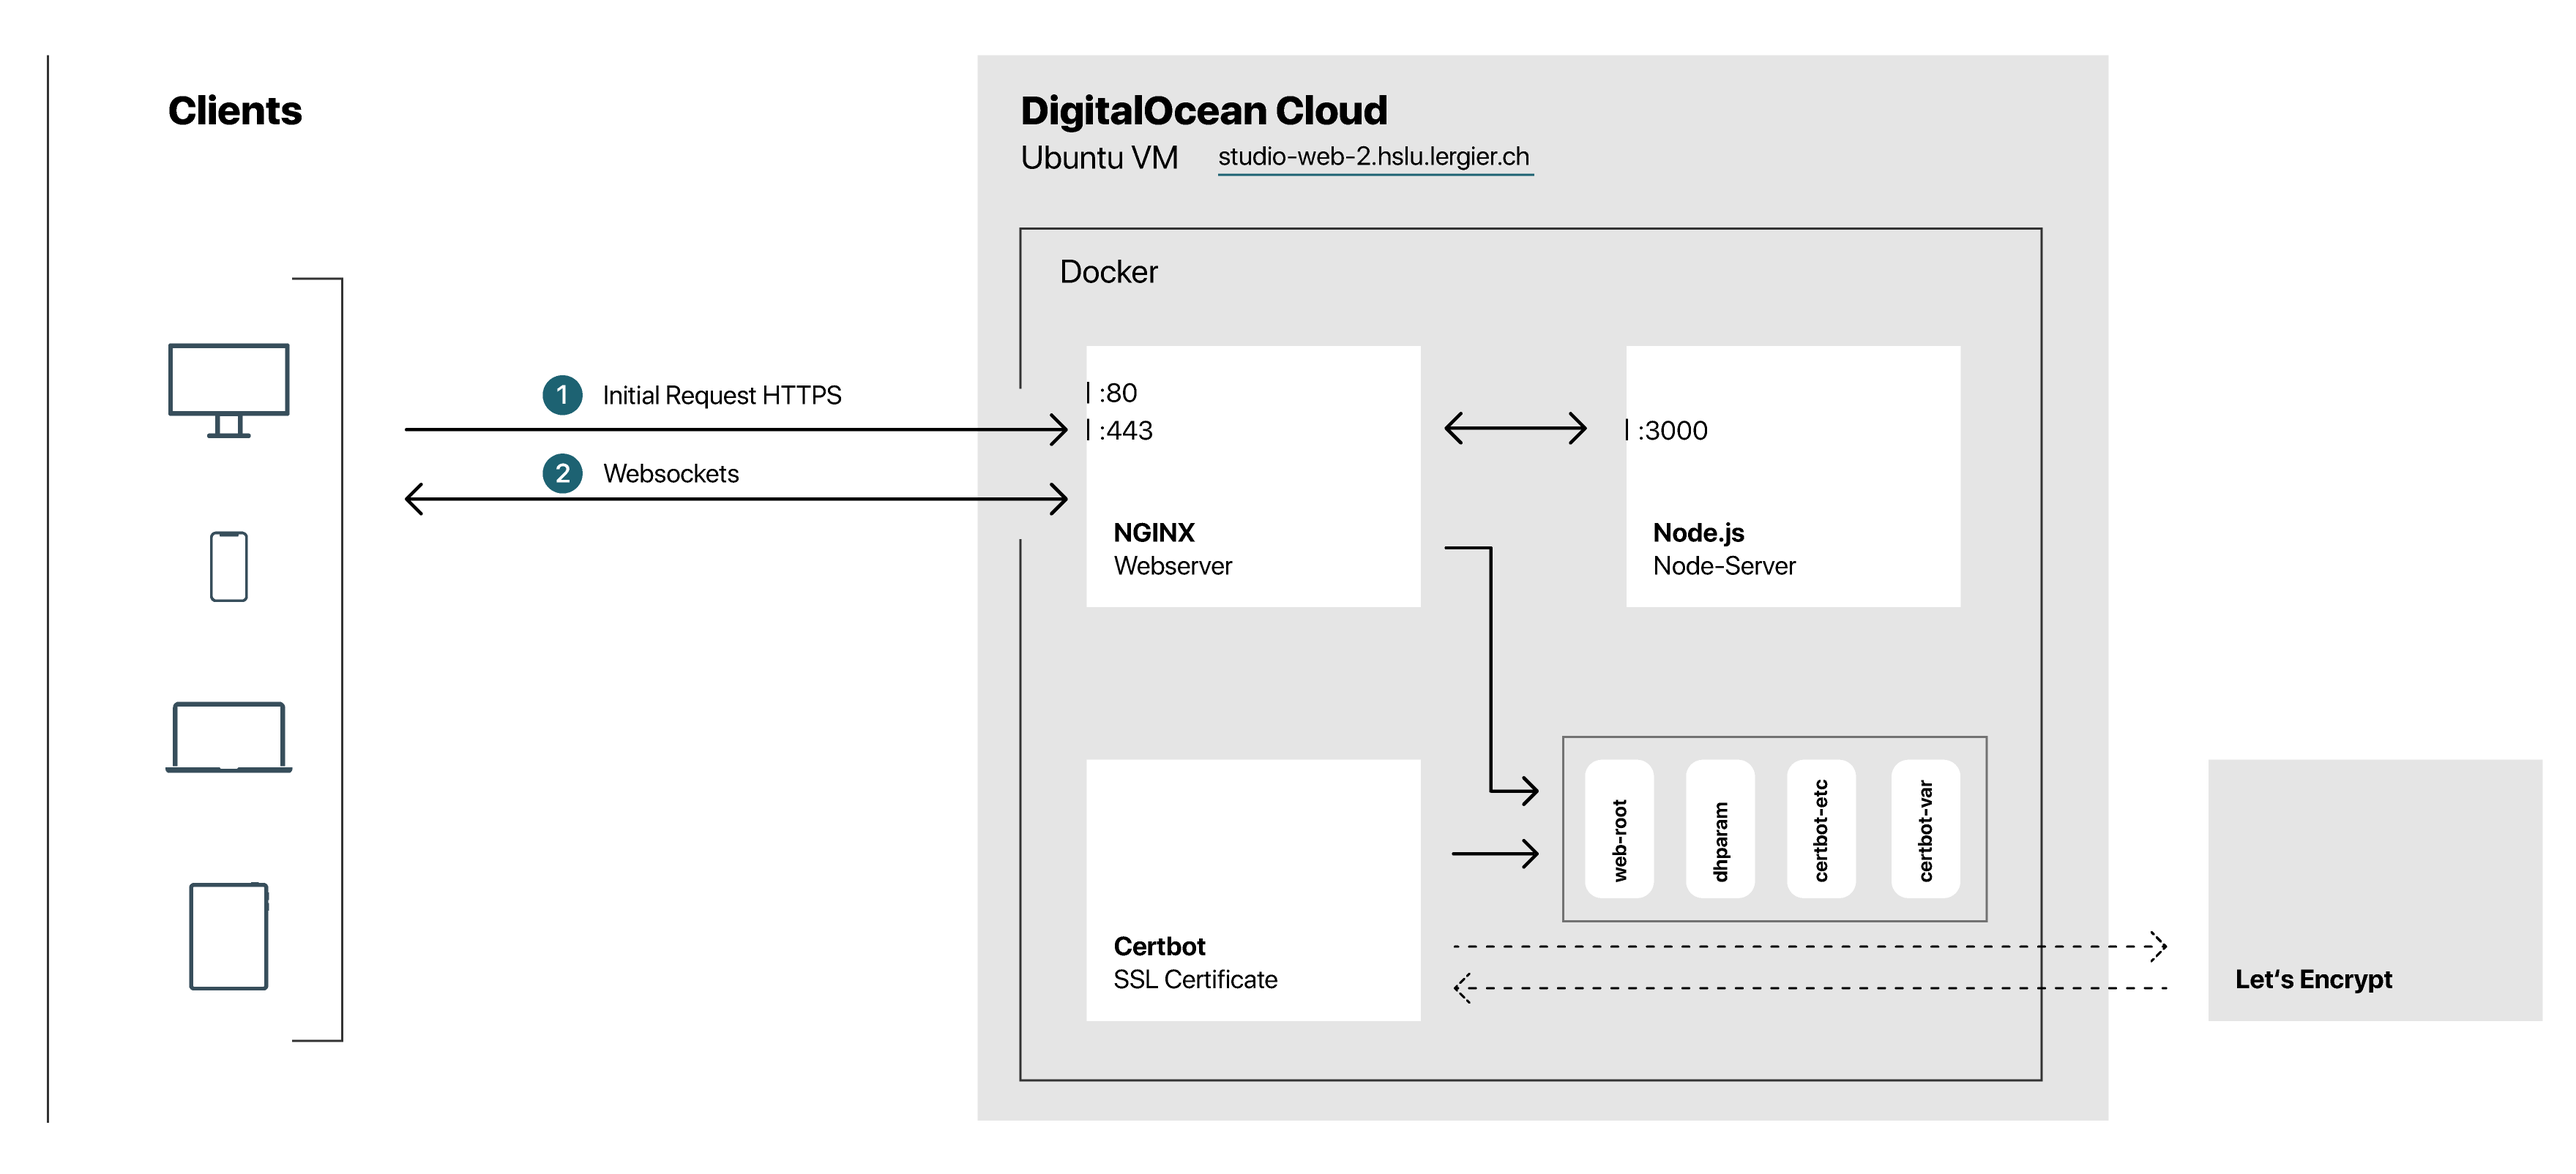
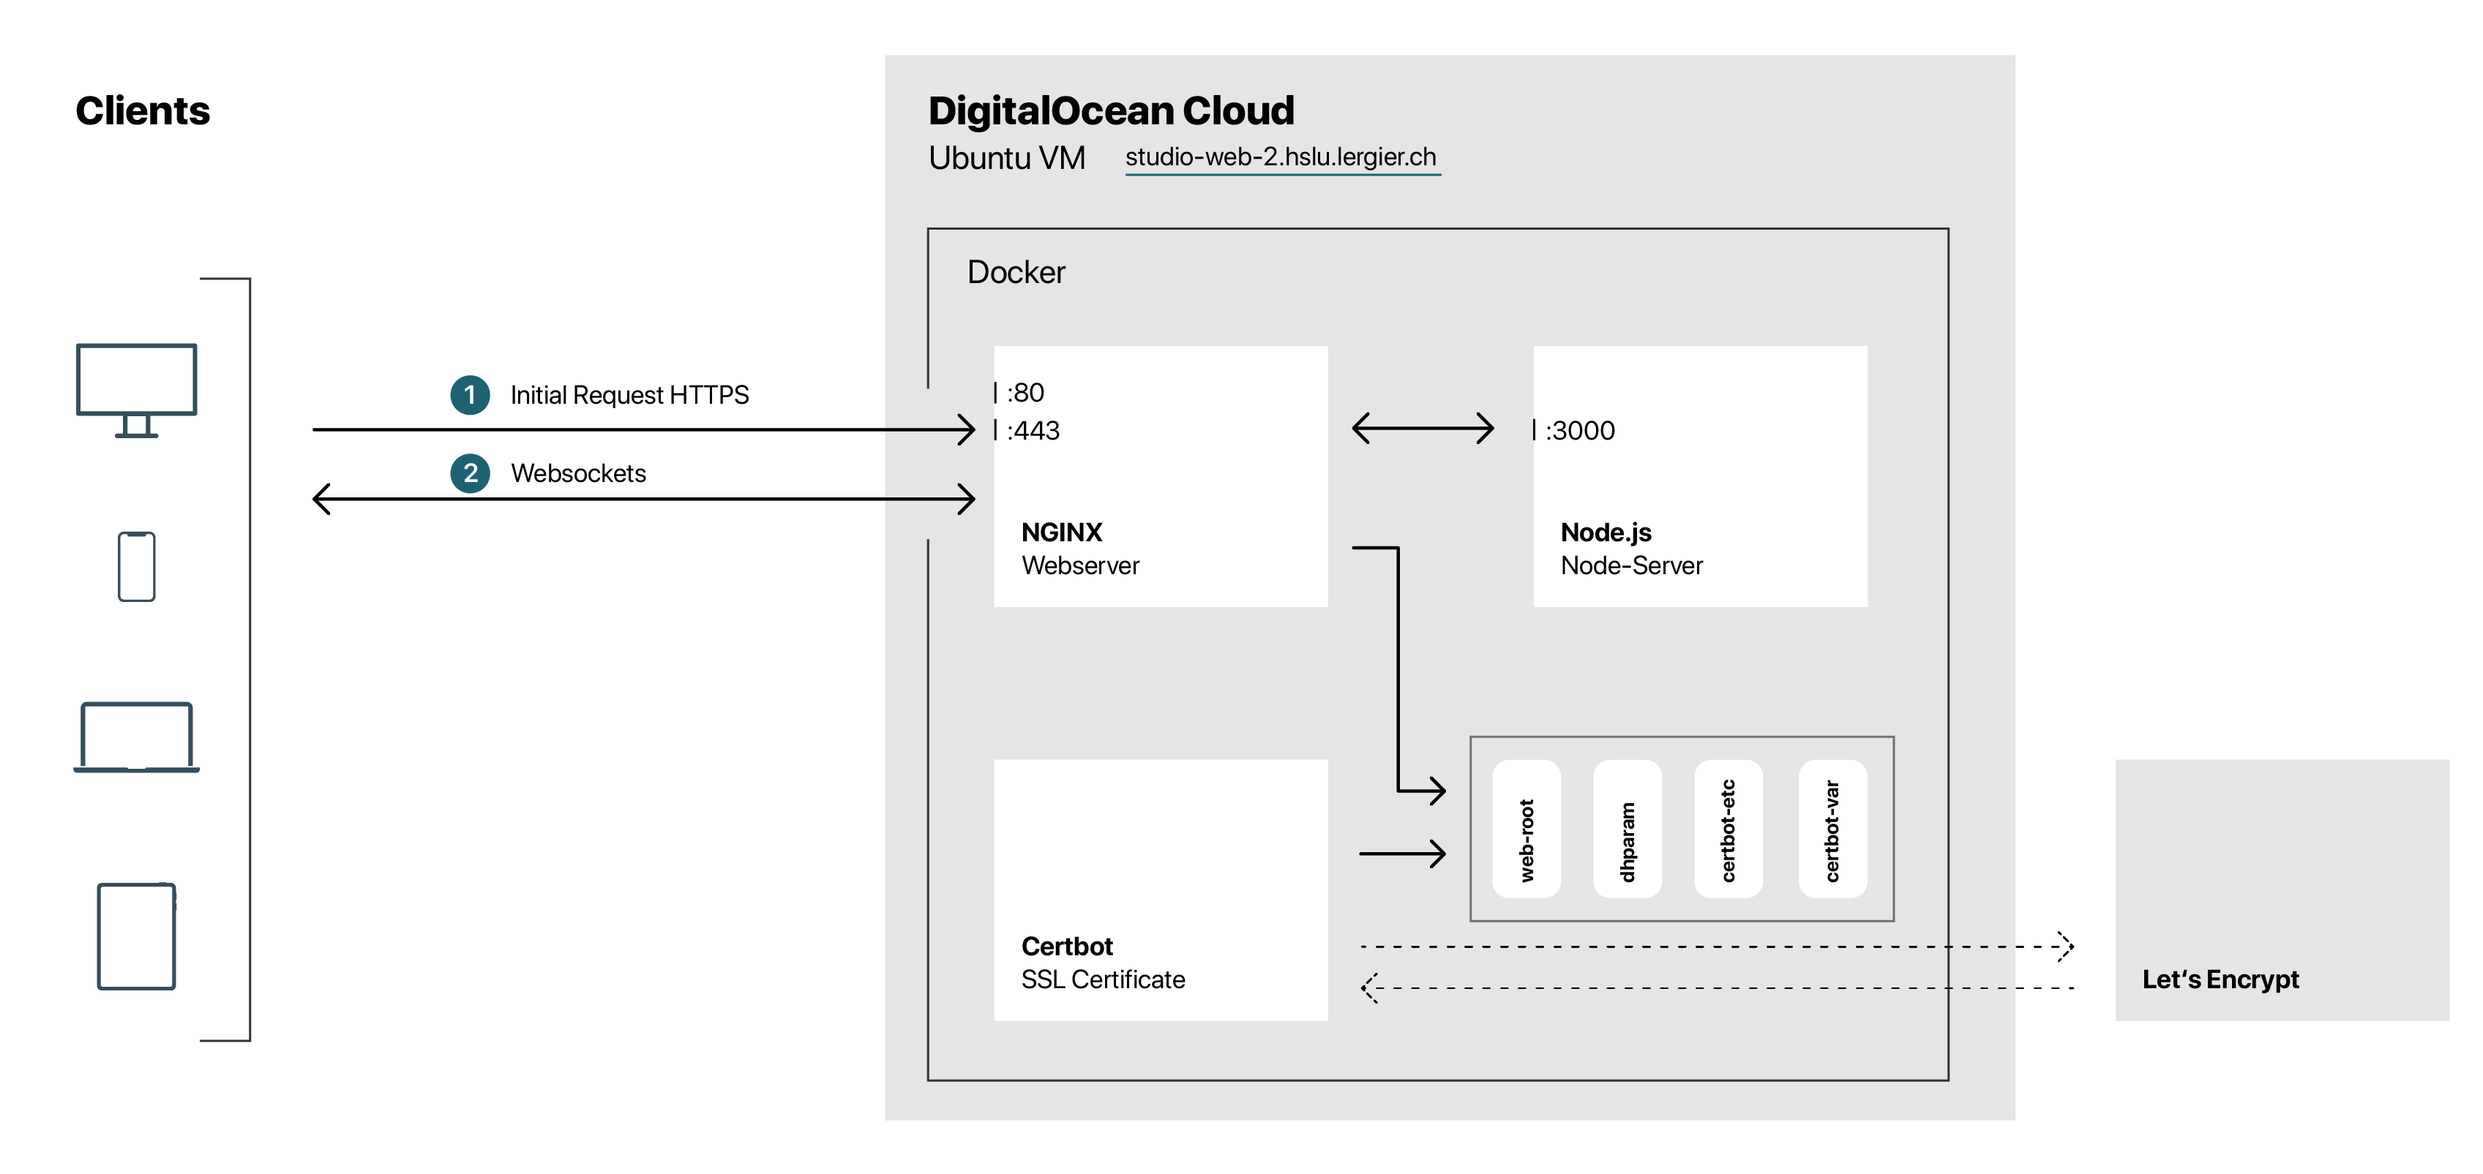
readme: - update - update server-architektur image

diff --git a/readme.md b/readme.md
@@ -1,17 +1,67 @@
 # Multi-Screen Ball Animation
+This is project I did in the course __Studio Web & Mobile Design 2__ in my Digital Ideation studies at Lucerne University of Applied Science and Arts HSLU.
 
-### Architecutre
+The target was to create an animation which runs over several screens/devices. To achieve this, the clients communicate over WebSockets.
+The main tools I used for this Project are [Socket.io](https://socket.io/), [Node.js](https://nodejs.org/en/), [WebPack](https://webpack.js.org/) and [Docker](https://www.docker.com/).
+
+My focus in this project was to create a user interface, which allows users to handle the connected devices easily. Furthermore it was important to me, to build a clean architecture and hosting environment.
+
+### Architecture
 ![Architecutre Diagram](/assets/server-architektur.png "Architecutre Diagram")
 
 ### Sequence Diagram
 The following diagram visualizes all important events, which are sent trough websockets.
 ![Sequence Diagram](/assets/sequenzdiagramm.png "Architecutre Diagram")
 
+## Available Scripts
+#### `npm run watch`
+Triggers webpack to watch the files and starts node server with nodemon (runs 'npm run start').
+
+#### `npm run build`
+Builds the app with webpack and create files in 'dist' folder.
+
+#### `npm run buildStart`
+Builds the app and starts the node server (runs `npm run build` and `node index.mjs` afterwards).
+
+#### `npm run start`
+Starts node server.
+
+#### `npm run dev`
+Starts node server with nodemon in devmode.
+
+## Links
+
+### API references
+- HTML Drag and Drop API: https://developer.mozilla.org/en-US/docs/Web/API/HTML_Drag_and_Drop_API
+  - DataTransfer getData: https://developer.mozilla.org/en-US/docs/Web/API/DataTransfer/getData
+- Pointer Events: https://developer.mozilla.org/en-US/docs/Web/API/Pointer_events
+- RequestAnimationFrame: https://developer.mozilla.org/en-US/docs/Web/API/window/requestAnimationFrame
+  - Tutorial: https://www.mediaevent.de/javascript/requestAnimationFrame.html
+
+### Diverses
+- Drag and Drop Tutorial: https://www.html5rocks.com/de/tutorials/dnd/basics/
+- Pointer Events: https://patrickhlauke.github.io/touch/tracker/multi-touch-tracker-pointer-hud.html
+- Sortable.js: https://github.com/SortableJS/Sortable
+- Heroku deploy Subdirectory: https://github.com/timanovsky/subdir-heroku-buildpack
+- Matter JS: https://brm.io/matter-js
+- Shopify Draggable: https://shopify.github.io/draggable/examples/
+
+### Webpack
+#### Loaders:
+- sass-loader: https://webpack.js.org/loaders/sass-loader/
+- MiniCssExtractPlugin: https://webpack.js.org/plugins/mini-css-extract-plugin/
+- postcss-loader: https://github.com/postcss/postcss-loader
+  - Autoprefixer: https://github.com/postcss/autoprefixer
+
 # Docker
 - [Configuration tutorial](https://www.digitalocean.com/community/tutorials/how-to-secure-a-containerized-node-js-application-with-nginx-let-s-encrypt-and-docker-compose)
 - [Another nice tutorial](https://www.digitalocean.com/community/tutorials/how-to-build-a-node-js-application-with-docker)
 
-## Notes to Docker installation & useful commands
+## Notes to Docker installation and useful commands
+The following part can be ignored, these are just useful commands about docker for myself.
+
+---
+
 #### Run just node image
 ```zsh
 docker build -t node-socket-io . #image dockerfile wird aufgerufen und image erhält namen node-socket-io
@@ -162,28 +212,3 @@ Later change to `0 0 * * *`. This runs the `.sh` script every day at 00:00:
 ```zsh
 0 0 * * * /root/hslu-studio-web-2/ssl_renew.sh >> /var/log/cron.log 2>&1
 ```
-
-# Links
-
-## API references
-- HTML Drag and Drop API: https://developer.mozilla.org/en-US/docs/Web/API/HTML_Drag_and_Drop_API
-  - DataTransfer getData: https://developer.mozilla.org/en-US/docs/Web/API/DataTransfer/getData
-- Pointer Events: https://developer.mozilla.org/en-US/docs/Web/API/Pointer_events
-- RequestAnimationFrame: https://developer.mozilla.org/en-US/docs/Web/API/window/requestAnimationFrame
-  - Tutorial: https://www.mediaevent.de/javascript/requestAnimationFrame.html
-
-
-## Diverses
-- Drag and Drop Tutorial: https://www.html5rocks.com/de/tutorials/dnd/basics/
-- Pointer Events: https://patrickhlauke.github.io/touch/tracker/multi-touch-tracker-pointer-hud.html
-- Sortable.js: https://github.com/SortableJS/Sortable
-- Heroku deploy Subdirectory: https://github.com/timanovsky/subdir-heroku-buildpack
-- Matter JS: https://brm.io/matter-js
-- Shopify Draggable: https://shopify.github.io/draggable/examples/
-
-## Webpack
-#### Loaders:
-- sass-loader: https://webpack.js.org/loaders/sass-loader/
-- MiniCssExtractPlugin: https://webpack.js.org/plugins/mini-css-extract-plugin/
-- postcss-loader: https://github.com/postcss/postcss-loader
-  - Autoprefixer: https://github.com/postcss/autoprefixer
